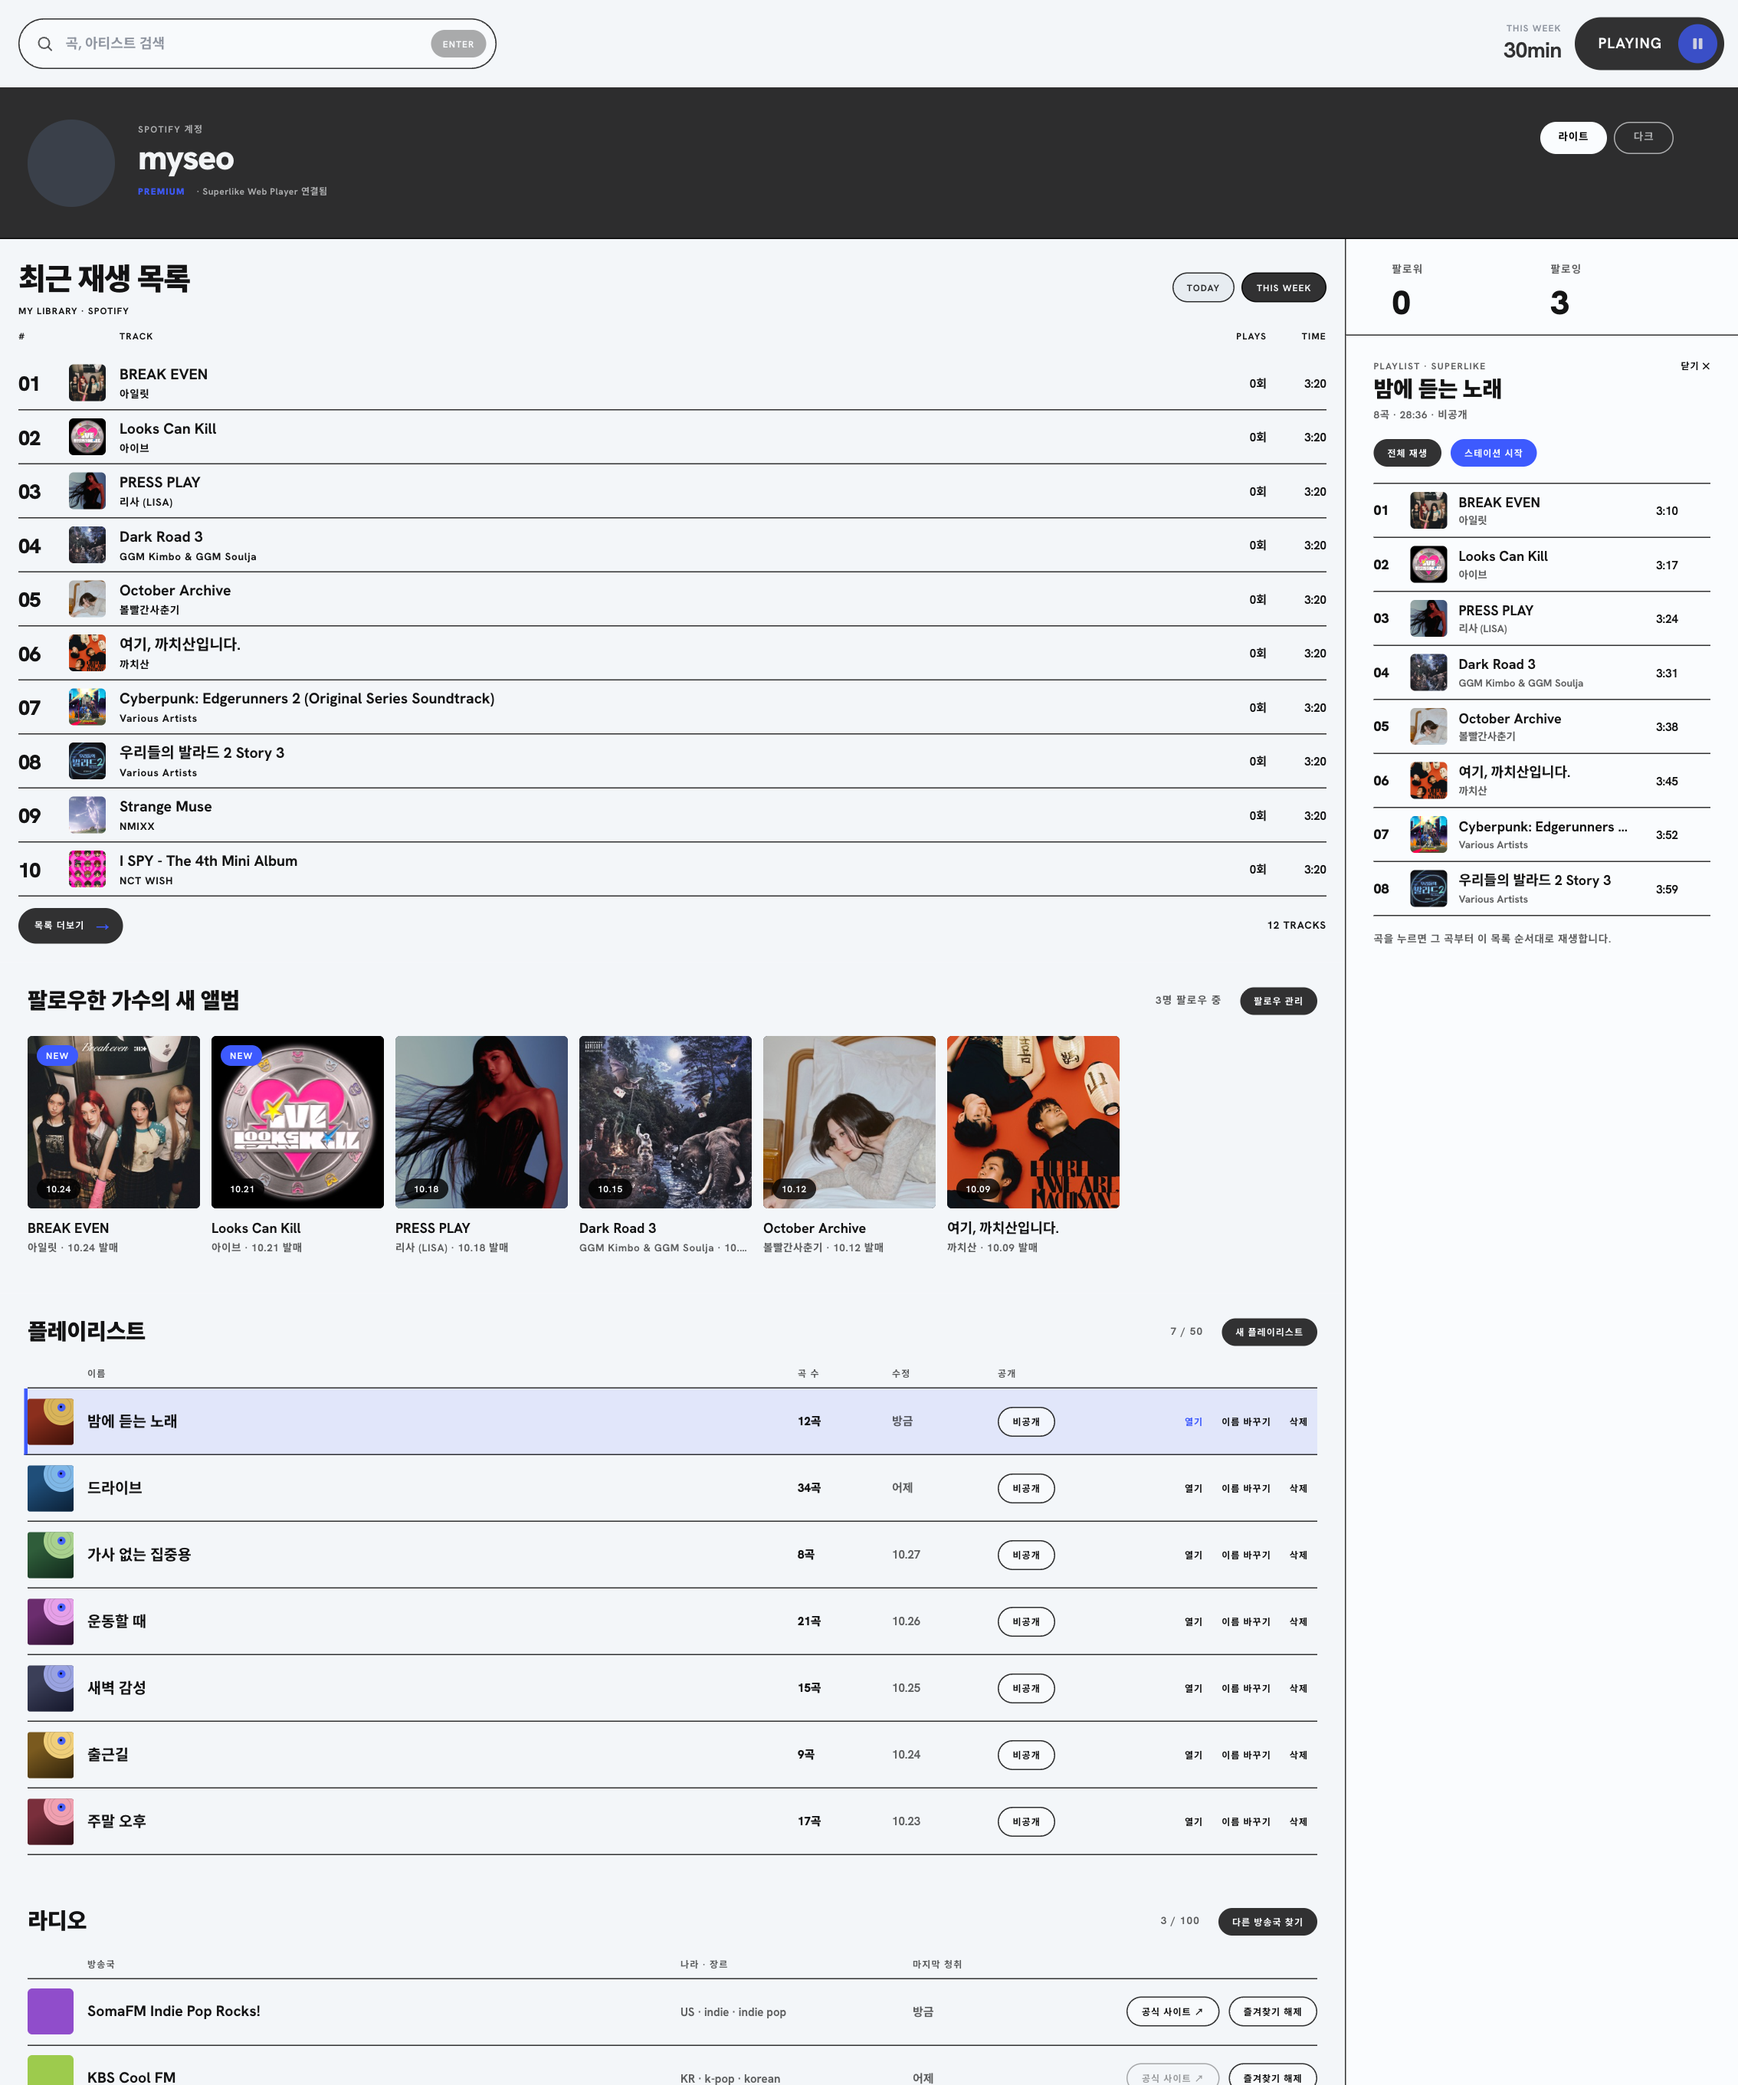
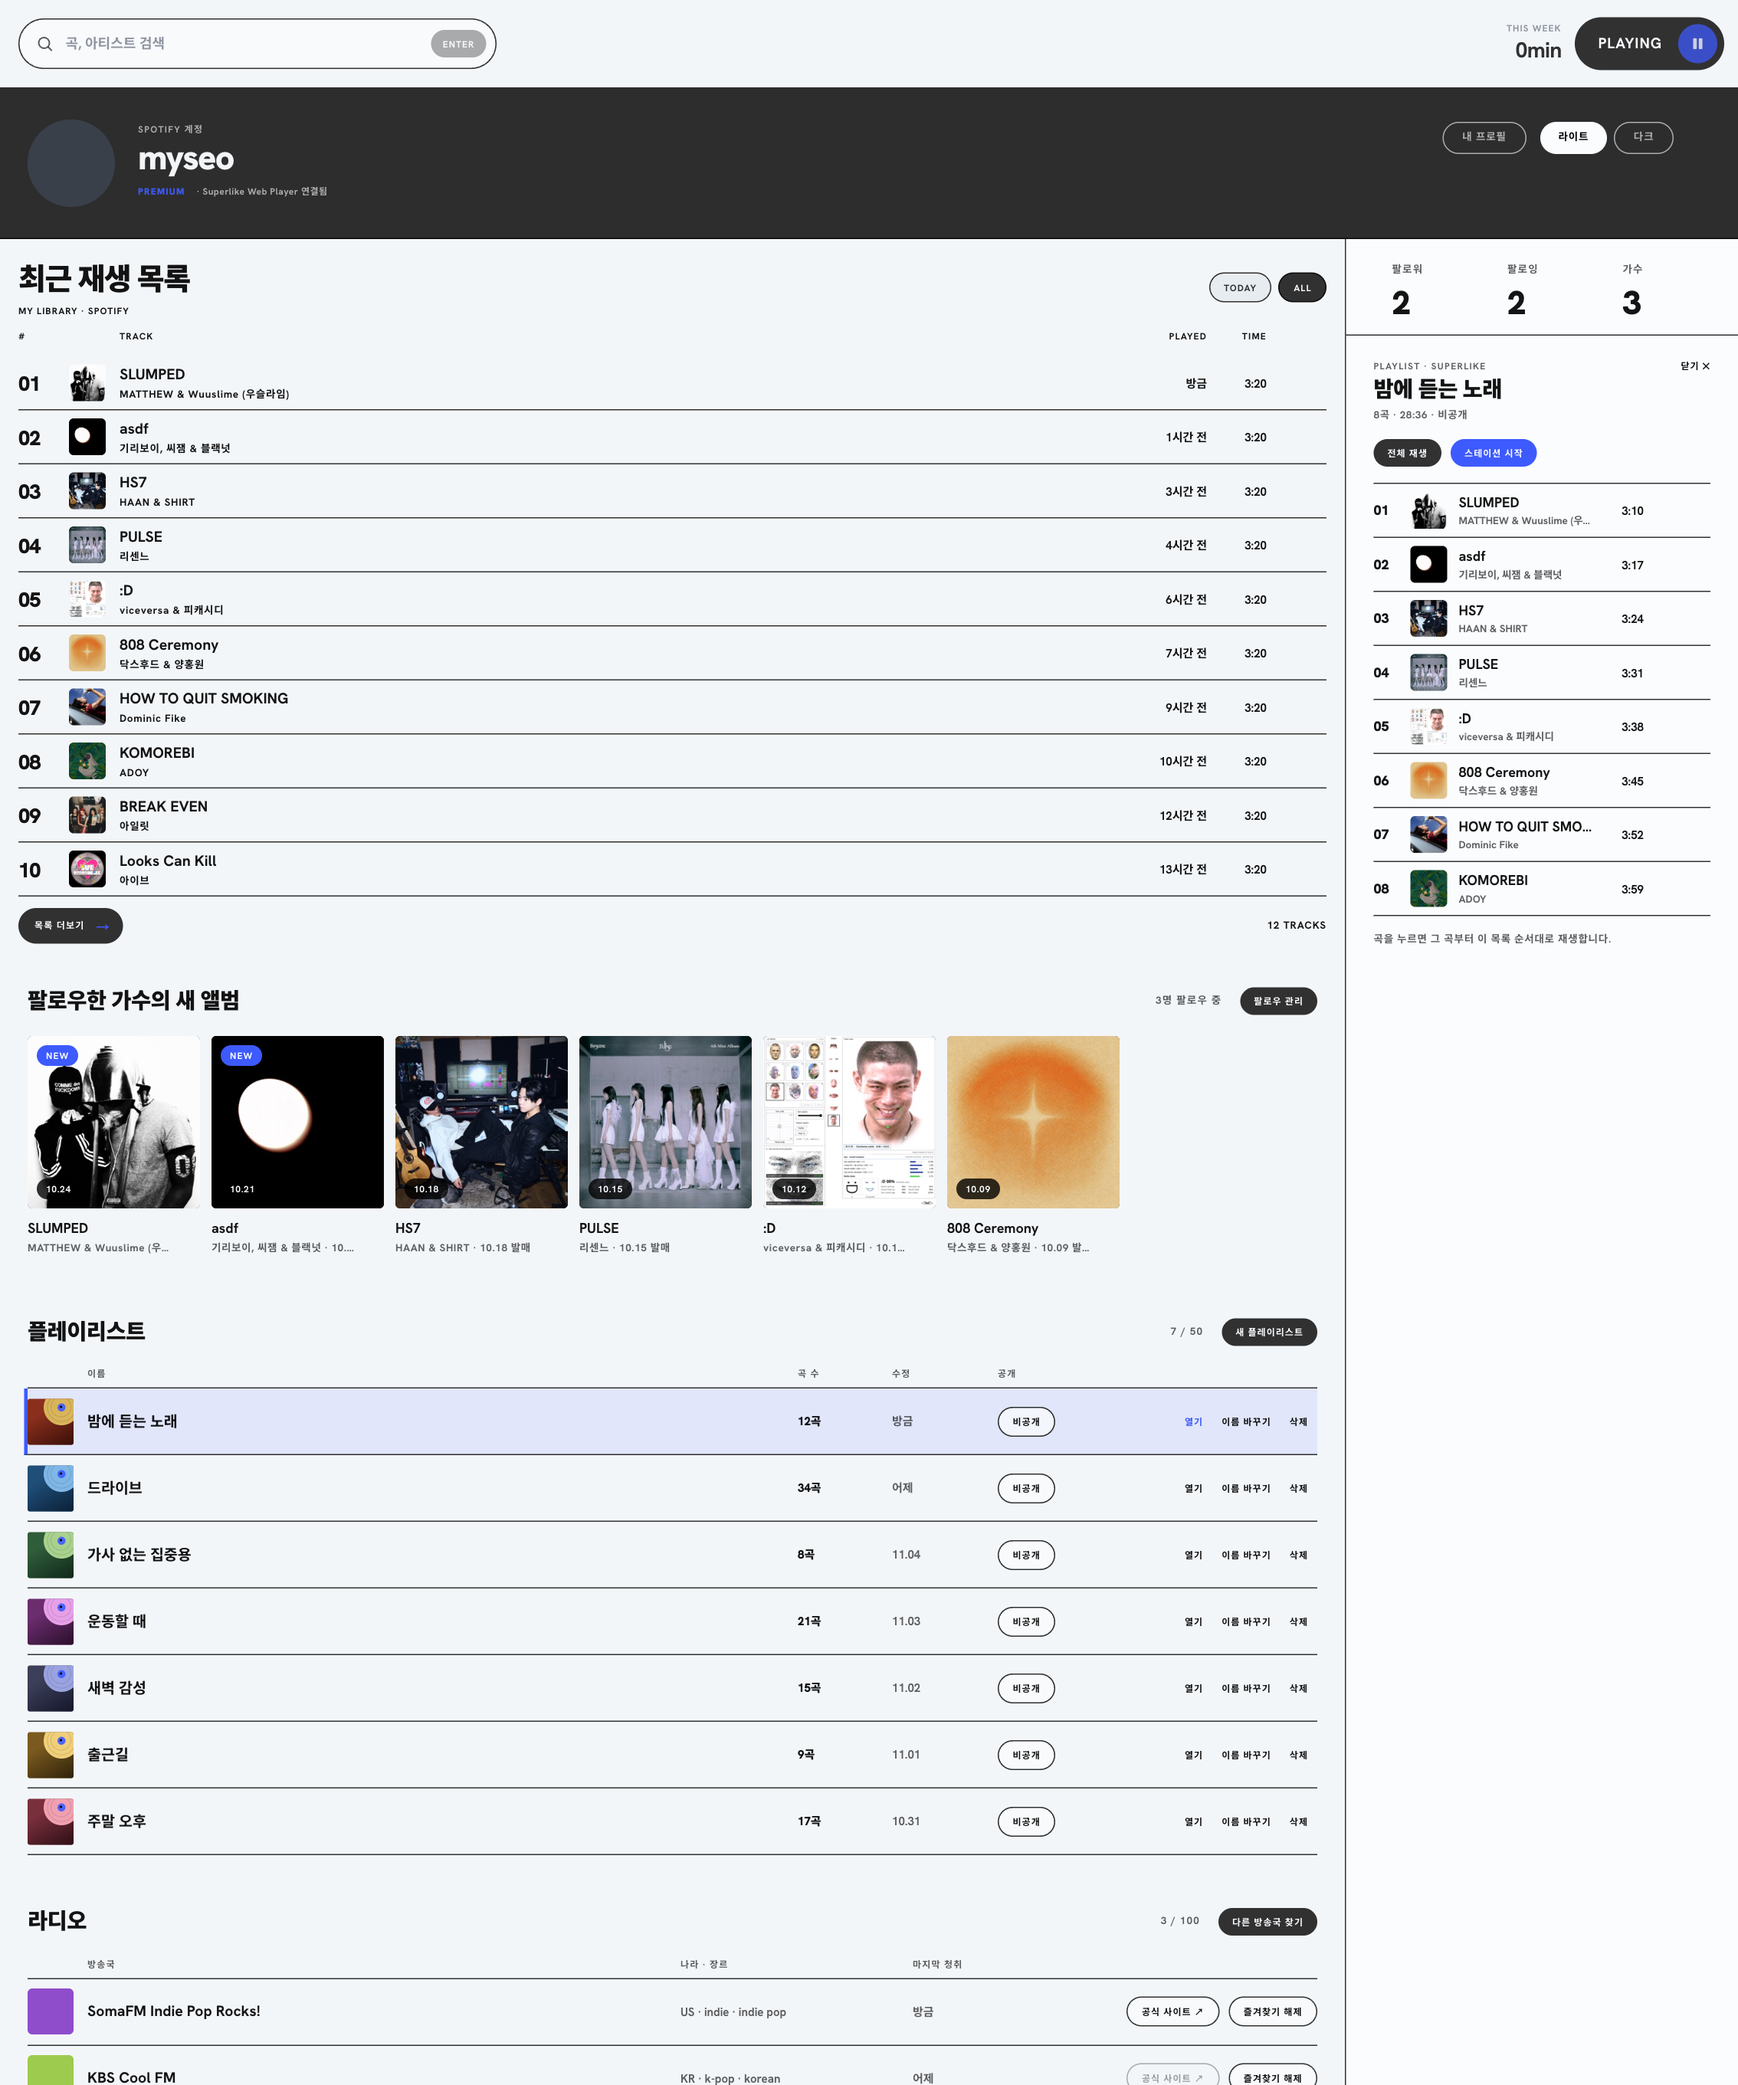
이용 안내·개인정보: 사람 팔로우와 내 활동 공개 설명 추가, 마이페이지 캡처 갱신과 함께 듣는 사람 캡처 추가, 캡처 스크립트에 사람 목록 가짜 응답 추가

diff --git a/components/manual/content.ts b/components/manual/content.ts
@@ -523,8 +523,26 @@ export const MANUAL: ManualSection[] = [
         items: [
           "계정 배너: 연결된 Spotify 계정의 이름과 구독 종류(PREMIUM)를 보여 줍니다.",
           "최근 재생 목록: Superlike에서 20초 이상 들은 곡이 최근에 들은 순서로 쌓입니다. 처음 연결했을 때 한 번만 Spotify의 최근 재생 기록(최대 50곡)을 가져와 시작하고, 그 뒤로는 Superlike에서 듣는 곡만 기록됩니다(다른 기기에서 들은 곡은 들어오지 않습니다). 주가 바뀌어도 비워지지 않고 계속 이어지며, 곡은 최대 100곡까지 저장됩니다. 100곡이 넘으면 가장 오래전에 들은 곡부터 빠지고, 다시 들은 곡은 맨 위로 올라옵니다. ALL 탭은 저장된 전체, TODAY 탭은 오늘 들은 곡만 보여 줍니다. 한 번에 10곡이 보이고, 그 안에서 스크롤해 나머지를 봅니다. 목록 아래의 ‘목록 더보기’는 저장된 전체 기록으로 갑니다.",
-          "함께 듣는 사람: 이 앱에 로그인할 수 있는 사람들입니다. 플레이리스트를 열면 이 자리에 그 플레이리스트가 대신 보입니다.",
+          "함께 듣는 사람: Superlike에 로그인한 다른 사람들이 나옵니다. 여기서 사람을 팔로우하고, 내 활동을 보여 줄지 정합니다. 플레이리스트를 열면 이 자리에 그 플레이리스트가 대신 보입니다. 자세한 내용은 아래 ‘사람 팔로우와 내 활동 공개’를 봅니다.",
         ],
+      },
+      { kind: "h", text: "사람 팔로우와 내 활동 공개" },
+      { kind: "shot", src: "/manual/people.png", alt: "함께 듣는 사람과 내 활동 공개 스위치", caption: "마이페이지 오른쪽 열: 팔로워·팔로잉·가수 숫자, 함께 듣는 사람, 내 활동 공개 스위치", ratio: 0.5982 },
+      {
+        kind: "list",
+        items: [
+          "함께 듣는 사람: Superlike에 로그인한 적 있는 다른 사람이 한 줄씩 나옵니다. 줄의 ‘팔로우’를 누르면 그 사람을 팔로우하고, 다시 누르면 취소합니다. 이름을 누르면 그 사람의 프로필 페이지로 갑니다.",
+          "내 활동 공개: 이 스위치는 처음에 꺼져 있습니다. 켜면 나를 팔로우한 사람에게만 내가 최근 들은 앨범, 공개로 바꾼 플레이리스트, 이번 주 아티스트가 보입니다. 끄면 팔로우한 사람에게도 보이지 않습니다. 스위치를 켜기 전에는 누가 나를 팔로우해도 내 곡은 보이지 않습니다.",
+          "보이지 않는 것: 이메일, 챗봇 대화, 곡을 들은 시각은 켜져 있어도 보이지 않습니다.",
+          "다른 사람의 프로필: 그 사람이 활동을 공개했고 내가 팔로우한 경우에만 최근 들은 앨범, 공개 플레이리스트, 이번 주 아티스트가 보입니다. 그렇지 않으면 ‘활동을 공개하지 않았어요’ 같은 안내만 보입니다. 앨범에는 ··· 세부 기능이 있습니다.",
+          "내 프로필: 계정 배너의 ‘내 프로필’을 누르면 다른 사람에게 보이는 내 프로필 페이지가 열립니다. 내 프로필에는 스위치와 상관없이 내 정보가 항상 보입니다.",
+          "오른쪽 열의 숫자: ‘팔로워’는 나를 팔로우하는 사람, ‘팔로잉’은 내가 팔로우하는 사람, ‘가수’는 내가 팔로우한 가수의 수입니다. 숫자를 누르면 그 목록이 아래 패널에 열립니다. 서로 팔로우하는 사이에는 ‘서로 팔로우’가 표시됩니다.",
+          "팔로우를 취소하면 그 사람의 곡은 더 이상 보이지 않습니다. 상대에게 알림은 가지 않습니다.",
+        ],
+      },
+      {
+        kind: "tip",
+        text: "플레이리스트를 다른 사람에게 보여 주려면 마이페이지의 플레이리스트 줄에서 ‘공개’로 바꾸고, 내 활동 공개 스위치도 켜야 합니다. 둘 중 하나라도 꺼져 있으면 보이지 않습니다.",
       },
       { kind: "h", text: "팔로우한 가수의 새 앨범과 소식" },
       {
@@ -533,7 +551,7 @@ export const MANUAL: ManualSection[] = [
           "아티스트 페이지(와 검색의 아티스트 탭)의 ‘+ 팔로우’를 누르면 그 가수를 팔로우합니다. 누르면 바로 팔로우되고, 팔로우한 가수는 ‘✓ 팔로우 중’으로 보이며 커서를 올리면 ‘팔로우 취소’가 됩니다. 100명까지 할 수 있습니다.",
           "마이페이지의 ‘팔로우한 가수의 새 앨범’ 칸에 최근 30일 안에 나온 앨범이 커버로 나옵니다. 아직 열지 않은 앨범에는 NEW가 붙고, 커버를 누르면 Superlike의 앨범 페이지로 갑니다(Spotify에서 그 앨범을 찾지 못하면 가수 페이지로 갑니다).",
           "새 앨범은 Apple Music에서 하루에 한 번 확인해 저장합니다. 앞으로 나올 앨범이나 공연 소식은 받아올 수 없어서, 이미 발매된 앨범만 알려 드립니다.",
-          "오른쪽 열의 ‘팔로잉’ 숫자는 팔로우한 가수 수이고, 누르면 ‘팔로우 중인 가수’ 목록이 열립니다. 여기서 팔로우를 취소하거나 이름을 눌러 아티스트 페이지로 갈 수 있습니다.",
+          "오른쪽 열의 ‘가수’ 숫자는 팔로우한 가수 수이고, 누르면 ‘팔로우 중인 가수’ 목록이 열립니다. 여기서 팔로우를 취소하거나 이름을 눌러 아티스트 페이지로 갈 수 있습니다.",
           "헤더의 종 아이콘에는 읽지 않은 소식 수가 나옵니다. 누르면 최근 소식 4개가 열리고, 닫으면 보인 소식은 읽음이 됩니다. ‘전체 보기’는 마이페이지 오른쪽에 소식 전체를 엽니다.",
         ],
       },
@@ -664,6 +682,7 @@ export const MANUAL: ManualSection[] = [
         kind: "list",
         items: [
           "Spotify에 연결하면: 이름, 이메일, 구독 종류(Premium 여부), 최근 재생 기록.",
+          "다른 사람을 팔로우하면: 누가 누구를 팔로우하는지, 그리고 내 활동 공개 스위치의 켜짐·꺼짐.",
           "금요일의 앨범 편지를 신청하면: 이메일 주소와 닉네임.",
         ],
       },
@@ -672,6 +691,7 @@ export const MANUAL: ManualSection[] = [
         kind: "list",
         items: [
           "재생 기록은 홈의 취향과 주간 통계를 만드는 데만 씁니다.",
+          "내 활동 공개 스위치를 켠 경우에만, 나를 팔로우한 사람에게 내가 최근 들은 앨범, 공개로 바꾼 플레이리스트, 이번 주 아티스트가 보입니다. 스위치는 처음에 꺼져 있고 언제든 끌 수 있습니다.",
           "이메일은 편지를 보내는 데만 씁니다.",
           "받은 정보를 다른 곳에 팔거나 넘기지 않습니다.",
           "챗봇의 ‘좋아요 N곡’, ‘재생 기록 4주’ 버튼을 켠 경우에만 곡 제목과 가수가 답변을 만드는 AI(Gemini)로 전달됩니다.",
@@ -690,6 +710,7 @@ export const MANUAL: ManualSection[] = [
           "재생 기록(20초 이상 들은 곡)",
           "라디오 즐겨찾기",
           "팔로우한 가수와 읽은 소식 표시",
+          "팔로우한 사람, 나를 팔로우한 사람, 내 활동 공개 설정",
           "챗봇의 지난 대화(최근 20개)",
         ],
       },

diff --git a/app/privacy/page.tsx b/app/privacy/page.tsx
@@ -13,6 +13,7 @@ export default function Privacy() {
           body: [
             "Spotify 연결 시: 이름, 이메일, 구독 종류(Premium 여부), 최근 재생 기록.",
             "가수를 팔로우하면: 그 가수의 이름과 팔로우한 때, 읽은 소식 표시.",
+            "다른 사람을 팔로우하면: 누가 누구를 팔로우하는지, 그리고 내 활동 공개 설정(켜짐·꺼짐).",
             "금요일의 앨범 편지를 신청하면: 이메일 주소와 닉네임.",
           ],
         },
@@ -20,6 +21,7 @@ export default function Privacy() {
           heading: "쓰는 곳",
           body: [
             "재생 기록은 홈의 취향과 주간 통계를 만드는 데만 써요. 팔로우한 가수는 새 앨범 소식을 보여 주는 데만 써요(가수 이름을 Apple Music에 보내 앨범을 확인해요). 이메일은 편지를 보내는 데만 써요.",
+            "내 활동 공개를 켠 경우에만, 나를 팔로우한 사람에게 내가 최근 들은 앨범, 공개로 바꾼 플레이리스트, 이번 주 아티스트가 보여요. 처음에는 꺼져 있고 마이페이지에서 언제든 끌 수 있어요. 이메일, 챗봇 대화, 들은 시각은 보이지 않아요.",
             "받은 정보를 다른 곳에 팔거나 넘기지 않아요.",
           ],
         },
